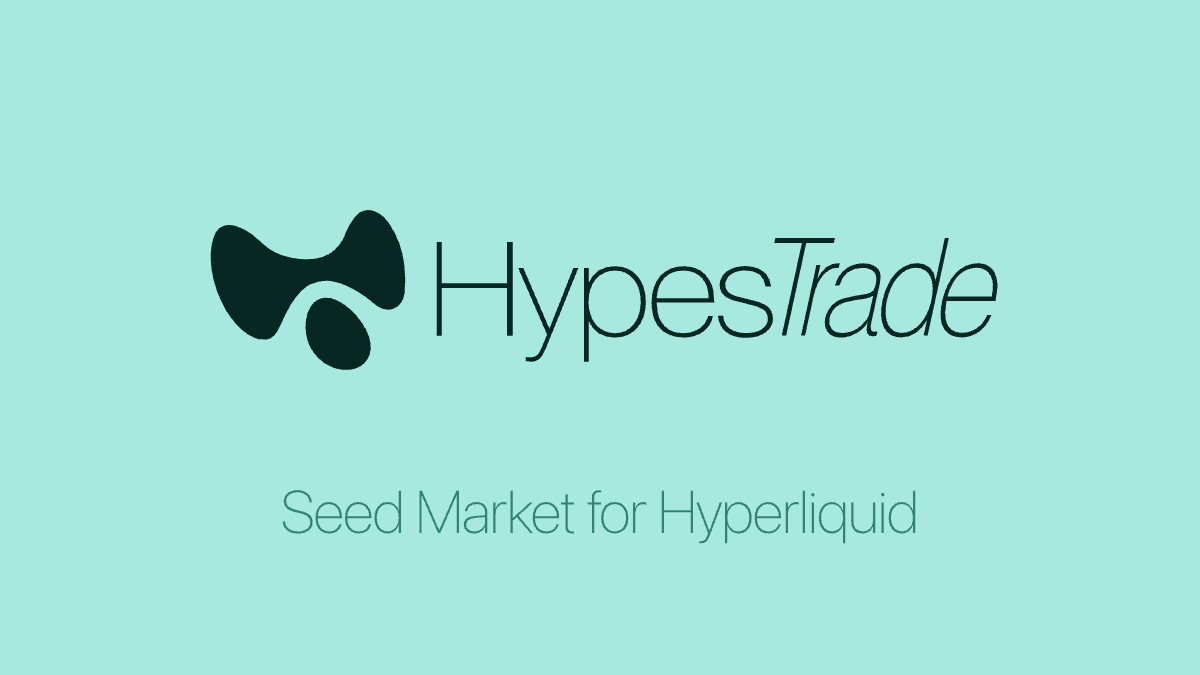
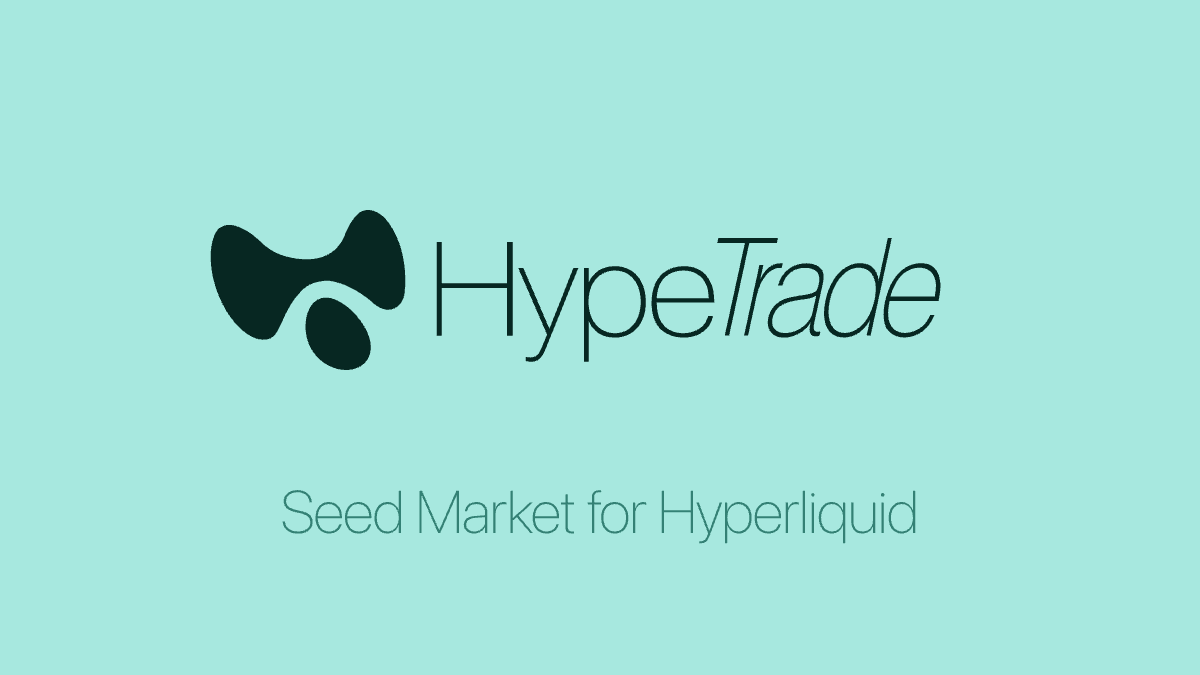
upgrade: Change the domain to hypetrade.xyz

Changed region(s): [[0.5858, 0.3422, 0.8325, 0.4978]]

diff --git a/app/[locale]/layout.tsx b/app/[locale]/layout.tsx
@@ -16,16 +16,16 @@ import GlobalProvider from "@/components/provider/global-provider";
 
 export const metadata = {
   title: {
-    template: "%s | HypesTrade",
-    default: "HypesTrade",
+    template: "%s | HypeTrade",
+    default: "HypeTrade",
   },
   description: "Seed Market for Hyperliquid",
   metadataBase: new URL(`https://${process.env.VERCEL_DOMAIN}`),
   openGraph: {
-    title: "HypesTrade",
+    title: "HypeTrade",
     description: "Seed Market for Hyperliquid",
     url: `https://${process.env.VERCEL_DOMAIN}`,
-    siteName: "HypesTrade",
+    siteName: "HypeTrade",
     images: "/img/1pi2tsX13qz1uu.png",
     locale: "en_US",
     type: "website",
@@ -51,9 +51,9 @@ export const metadata = {
   },
   twitter: {
     card: "summary_large_image",
-    title: "HypesTrade",
+    title: "HypeTrade",
     description: "Seed Market for Hyperliquid",
-    creator: "@hypestrade",
+    creator: "@HypeTradeXYZ",
     images: ["/img/1pi2tsX13qz1uu.png"],
   },
 };

diff --git a/lib/utils/social.ts b/lib/utils/social.ts
@@ -1,9 +1,9 @@
 
-export const TwitterLink = "https://x.com/hypestrade";
+export const TwitterLink = "https://x.com/HypeTradeXYZ";
 export const DiscordLink = "https://discord.com/channels/1254632665685164092/1254724478038970409";
-export const TgLink = "https://t.me/+mLCHu1Z6vXJjYjY1";
-export const GithubLink = "https://github.com/hypestrade";
-export const DocLink = "https://hypestrade.gitbook.io/hypestrade"
+export const TgLink = "https://t.me/hypetrade0";
+export const GithubLink = "https://github.com/hypetrade";
+export const DocLink = "https://hypetrade.gitbook.io/hypetrade"
 
 export const handleGoTwitter = () => {
   window.open(TwitterLink);
@@ -18,7 +18,7 @@ export const handleGoToDiscordTickets = () => {
 }
 
 export const handleGoGithub = () => {
-  
+
 };
 
 export const handleGoTg = () => {

diff --git a/app/[locale]/_home/home-footer.tsx b/app/[locale]/_home/home-footer.tsx
@@ -10,7 +10,7 @@ export default function HomeFooter() {
       <div className="mt-[42px] flex items-center justify-between px-[120px] text-sm leading-5 text-title-white">
         <div className="flex items-center space-x-[80px]">
           <div>2024</div>
-          <div>Hypes Labs.</div>
+          <div>HypeTrade Labs.</div>
         </div>
         <Image src="/icons/simple-logo.svg" width={39} height={32} alt="logo" />
         <div className="flex items-center space-x-[80px]">

diff --git a/app/[locale]/_home/block-chain.tsx b/app/[locale]/_home/block-chain.tsx
@@ -10,7 +10,7 @@ export default function BlockChain() {
             Deposit
           </div>
           <div className="hover:bg-main-hover mt-5 flex h-10 cursor-pointer items-center justify-center rounded-full bg-main px-[34px] text-bg-black">
-            HypesTrade
+            HypeTrade
           </div>
           <div className="absolute left-0 top-1/2 h-[30px] w-[30px] -translate-x-1/2 -translate-y-1/2 rounded-full bg-main"></div>
         </div>

diff --git a/app/[locale]/_page-layout/_header/connect-btn.tsx b/app/[locale]/_page-layout/_header/connect-btn.tsx
@@ -49,7 +49,7 @@ export default function ConnectBtn() {
       }
 
       signMessage(
-        { message: "Hello, Welcome to HypesTrade!" },
+        { message: "Hello, Welcome to HypeTrade!" },
         {
           onSuccess(data) {
             localStorage.setItem(SignMessageKey, data);

diff --git a/app/sitemap.ts b/app/sitemap.ts
@@ -3,7 +3,7 @@ import { MetadataRoute } from "next";
 export default async function sitemap(): Promise<MetadataRoute.Sitemap> {
   return [
     {
-      url: "https://hypes.trade/sitemap",
+      url: "https://hypetrade.xyz/sitemap",
       lastModified: new Date(),
     },
   ];
